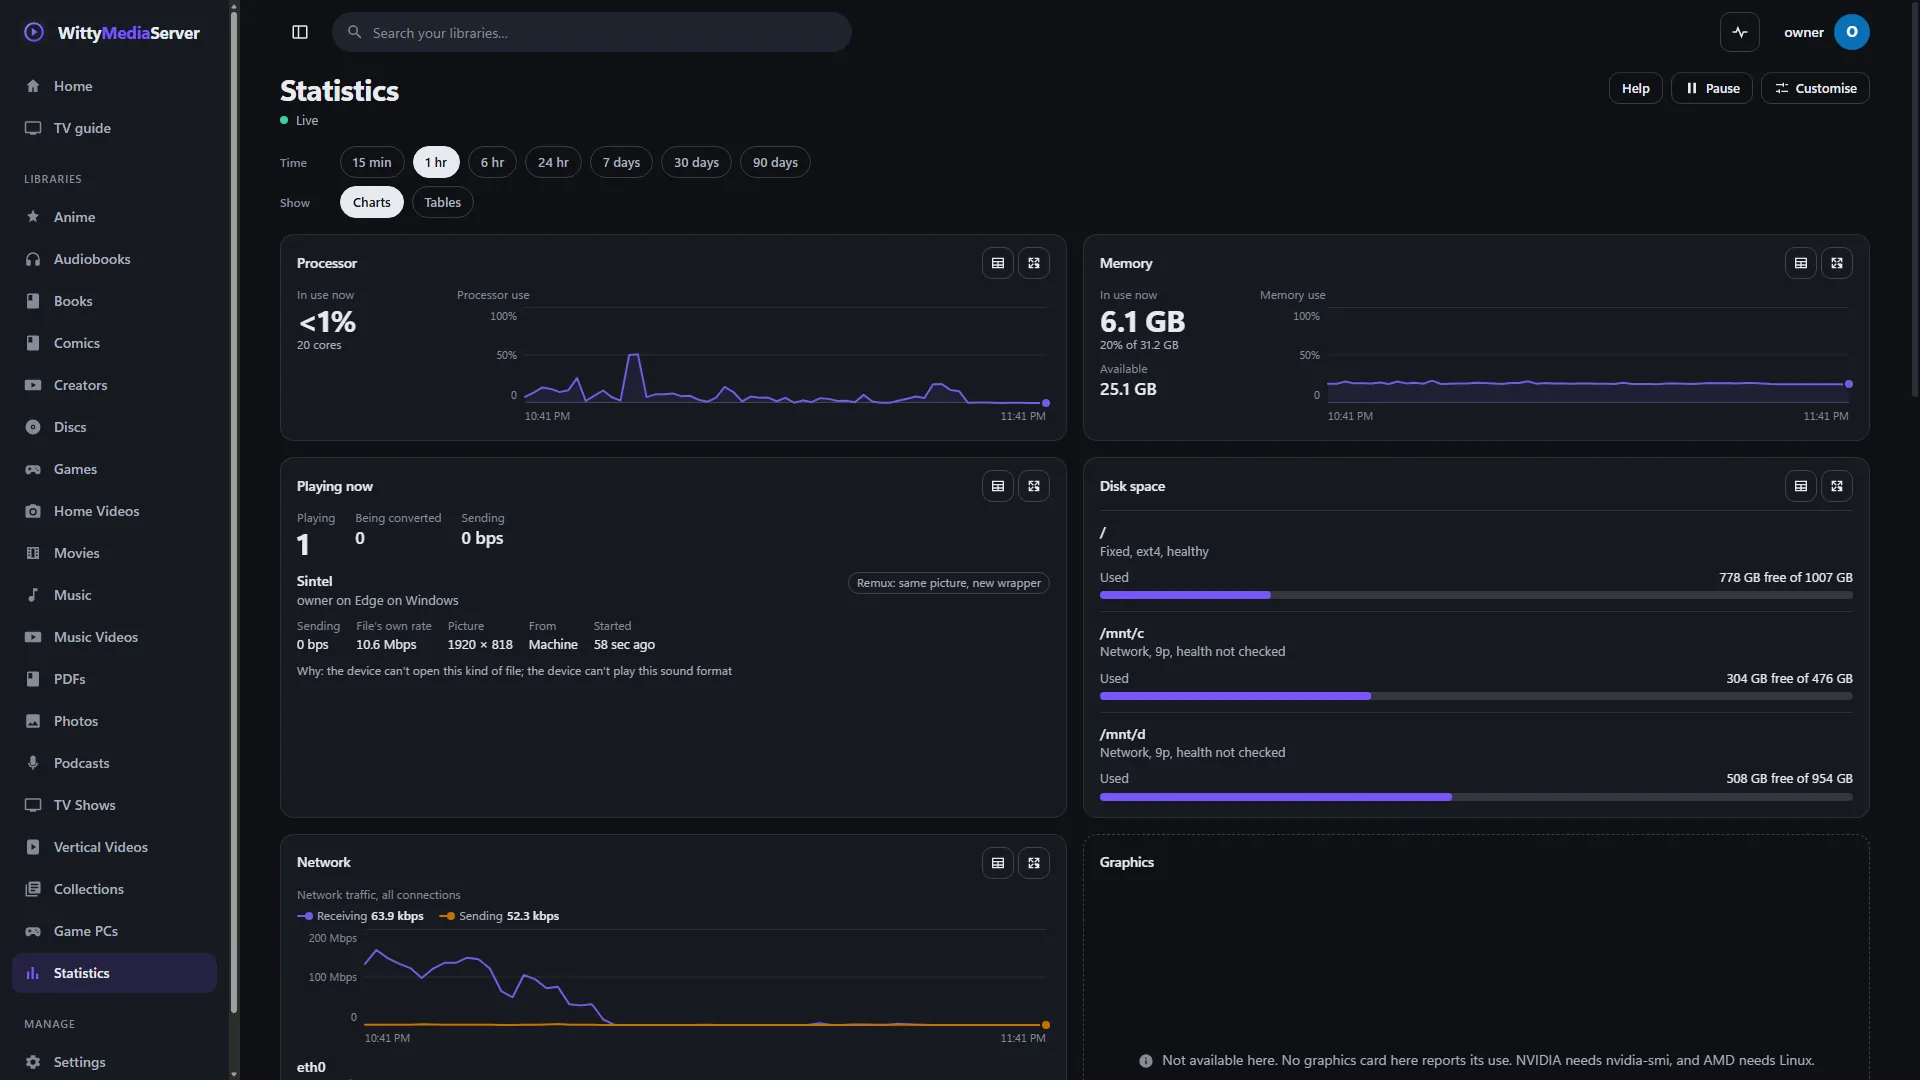
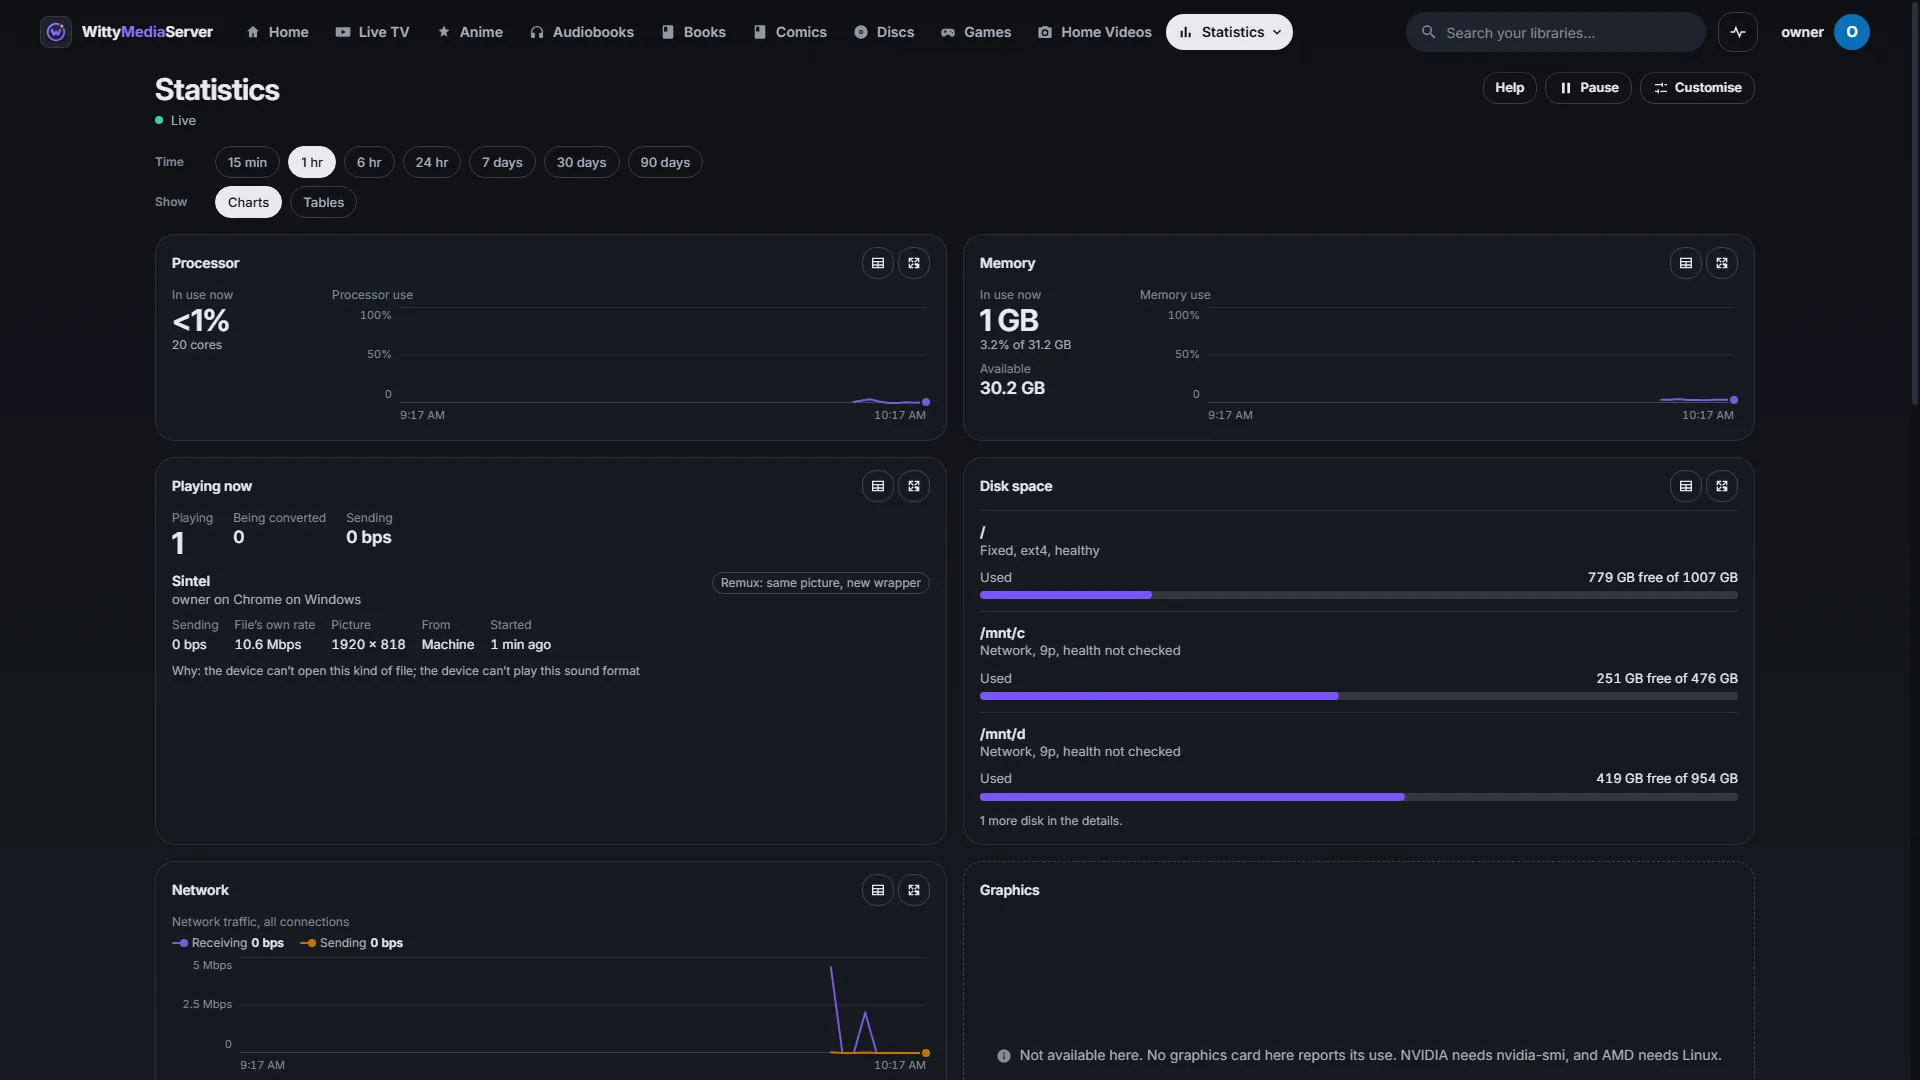
README pictures retaken from WittyMediaServer 0.8.0-alpha (#7)
Taken on a test server with open media from WittyDemoMedia only.

diff --git a/CHANGELOG.md b/CHANGELOG.md
@@ -2,6 +2,10 @@
 
 What changed in WittyStats, newest first.
 
+## 0.3.1
+
+- The README's picture is retaken from WittyMediaServer 0.8.0-alpha, on a test server with open media only.
+
 ## 0.3.0
 
 - **Module API 5 (0.3.0):** carries `integration.json` (web host API 5, SDUI catalogue revision 8) and its bundle exports `register(host)`, claiming nothing: Statistics is its SDUI page on every app, TV included, and the dashboard its view on the web and desktop apps. The numbers and who may see them stay the server's.
